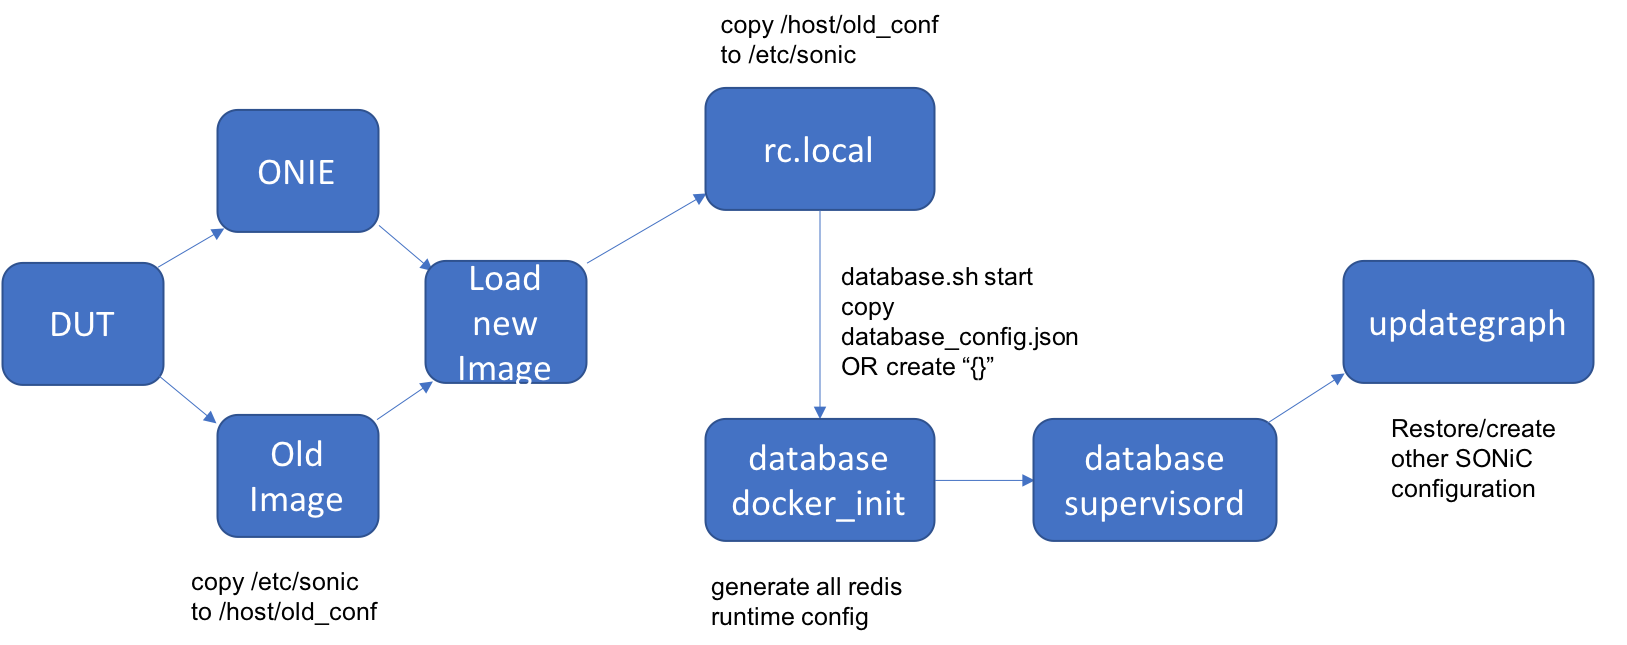
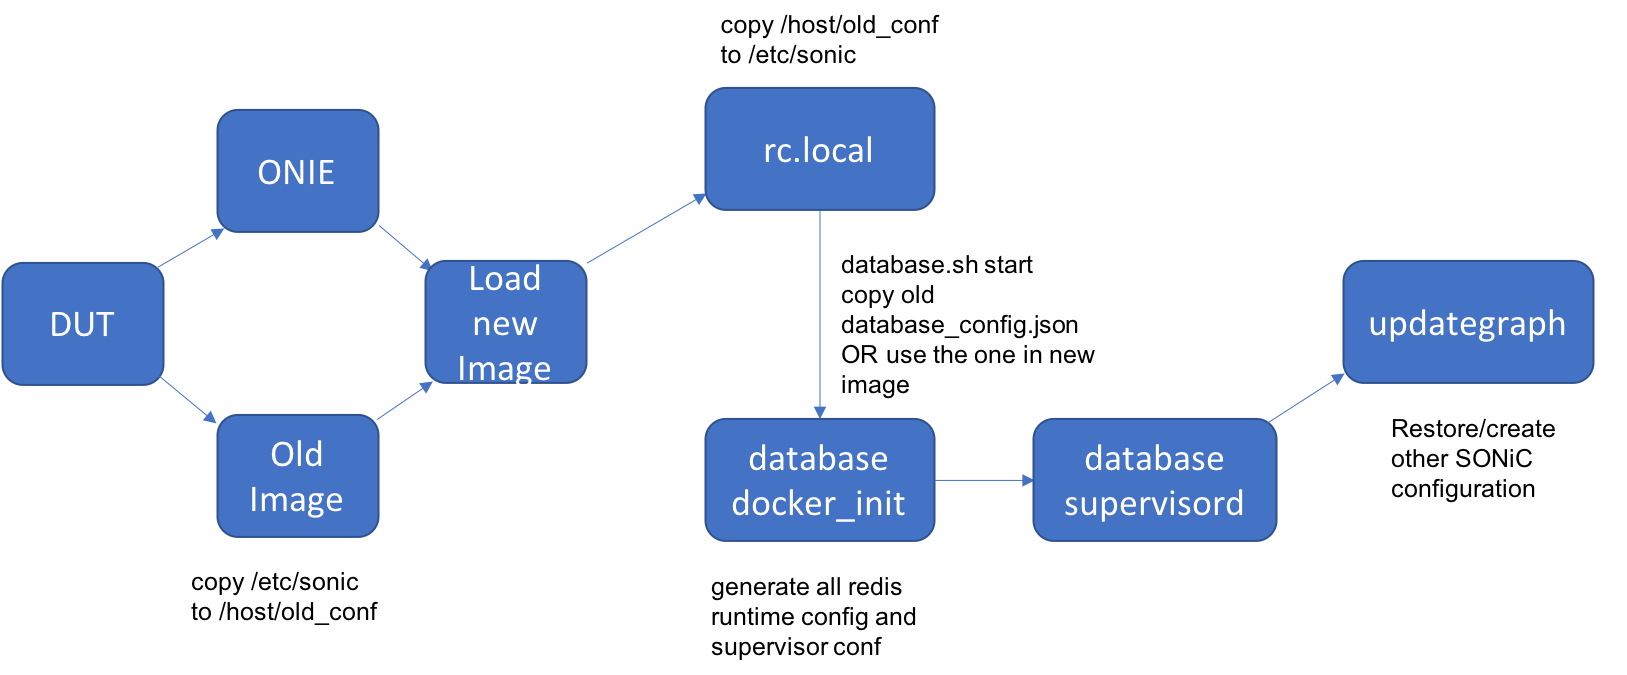
update design to allow user to config

diff --git a/doc/database/multi_database_instances.md b/doc/database/multi_database_instances.md
@@ -29,6 +29,7 @@ DUT try to load a new images
 ## New Design of Database Startup
 
 * We introduce a new configuration file at /etc/sonic/database\_config.json
+
 * This file contains how many database instances and on each instance what the configuration is
 
     ```json
@@ -57,26 +58,35 @@ DUT try to load a new images
         }
     }
     ```
-* This database\_config.json is pre-designed in SONiC source codes on each version instead of copying/modifying it via users on fly. When loading new images, this file is copied to /etc/sonic/ from images. 
+
+* By default, each image has one database\_config.json file in SONiC file system at /etc/sonic/
+
+* The users is able to modify this config file (e.g. adding a new DB instance) on switch and reload the setup to make it take effect. New image will copy this config file to overwrite the default one on the new image while rebooting. 
+
 * DO NOT change the original single redis database instance implementation
     * [x] If we don't have any DATABASE configuration in database\_config.json, the default redis database instance is there and behaves the same as what it does today
     * [x] If we have some DATABASE configuration in database\_config.json,  besides the default redis database instance, we create these extra database instances, later the users can choose which database instances they want to use according to their configuration in database\_config.json
-* All database related configuration(redis.conf, redis.sock, redis.pid, supervisord.conf, database ping/pong script) can be decided/generated during compiling/building since we know database\_config.json in source code. 
 
-![center](./img/current_DB.png)
+* All database related configuration(redis.conf, redis.sock, redis.pid, supervisord.conf, database ping/pong script) will be decided/generated during rebooting just before starting database docker,  we will use database\_config.json to generate necessary config. 
+
+![center](./img/newDesign.png)
 
 1. DUT try to load a new images (no changes)
     * [x] if configuration at /etc/sonic/ exists, copy /etc/sonic/ to /host/old\_config as usual
 2. rc.local service (no changes)
     * [x] if /host/old\_config/ exists, copy /host/old\_config/ to /etc/sonic/ as usual
     * [x] if no folder /host/old\_config/, copy some default xmls and etc. as usual
-3. __database service__
-    * [x] __database\_config.json is already copied to /etc/sonic/ , at this stage , it is visible to host system__
+3. **database service**
+    * [x] **if database\_config.json is in old_config, then copy it to /etc/sonic/ to overwrite the default one
+    * [x]  **otherwise use the default one**
     * [x] **database.sh start**
-        * [x] __database\_config.json should always exist __
-    * [x] __supervisord__
+        * [x] **Entry Point is docker_init.sh**
+        * [x] **database\_config.json should always exist **
+        * [x] **generate all necessary redis conf files and supervisor conf file**
+    * [x] **supervisord**
+        * [x] **docker_init.sh exec supervisord** 
         * [x] **start database programs**
-    * [x] __check if database instances are running via ping/PONG check script__
+    * [x] **check if database instances are running via ping/PONG check script**
 4. updategraph service (no changes)
     * [x] depends on rc.local and database
     * [x] restore selected files /etc/sonic/old\_config to /etc/sonic/, if any
@@ -505,7 +515,12 @@ redis_cmd += redis_cmd_db + "hgetall \"%\" | paste -d '='  - - | sed  's/^/$/'; 
 EXEC_WITH_ERROR_THROW(cmd, res);
 ```
 
+## Programming Language
+
+One  suggestion during SONiC meeting discussion is to write one DB_ID <-> DB_INST mapping function in C++, and then to generate the codes in Python and Go, which could avoid introduce the same mapping function for all  the programming languages. 
+
 ## Warm-reboot
+
 We know that warm-reboot is supported in SONiC now.
 Today the single database instance is using "redis-cli save" in fast-reboot script to store data as RDB file.
 Then restore it when database instance is up.
@@ -520,14 +535,16 @@ redis-cli -n 3 --raw KEYS '*' | xargs redis-cli -n 3 MIGRATE 127.0.0.1 6380 "" 1
 ![center](./img/db_restore_new.png)
 
 
-1. we need to only allow warm-reboot/upgrade from one version to another version. In this way,  we know what database\_config.json looks in both old and new image, then in the new image, we can handle the warm-reboot/upgrading accordingly and know where to migrate the database.
+1. we need to only allow warm-reboot/upgrade from one version to another version. In the new image, we can handle the warm-reboot/upgrading accordingly and know where to migrate the database since the "delta" between old and new database_config.json can be calculated. We can write a script to handle this case.
 2. other idea is welcome
 
 ## Platform VS
 
-platform vs is not changed at this moment. For the vs tests, they are still using one database instance since platform vs database configuration is different from that at database-docker. For vs test, it is enough to use on database instance.
+platform vs is not changed at this moment. For the vs tests, they are still using one database instance since platform vs database configuration is different from that at database-docker. For vs test, it is enough to use on database instance. 
+
+From the feedback in SONiC meeting, docker platform vs is suggested to have multiple database instances as well.  
 
 ## Testing
 
-We apply this changes on our local switches at labs. All the database are assigned to different database instances based on configuration.  So far, for the real traffic things looks great, all the tables , entries work properly. We will keep doing tests and running with traffic and see.
+We apply this changes on our local switches at labs. All the database are assigned to different database instances based on configuration.  So far, for the real traffic things looks great, all the tables , entries work properly. We will keep doing tests and running with traffic and see. Also all the vs tests passed.
 
